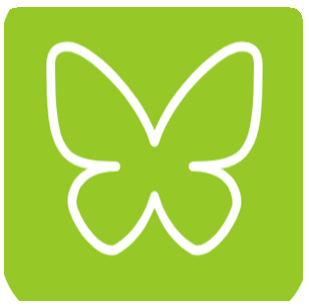
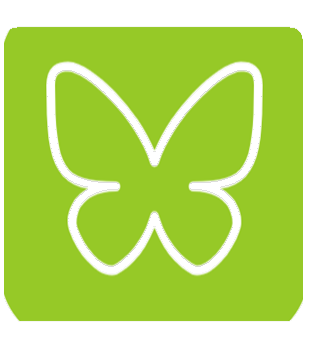
chore: préparation passage stable — licence AGPL v3, icône, robustesse install, statut connexion, doc
Tâches prioritaires complétées avant le passage en canal stable du Market.
pluginVersion conservé à 1.0.a (validation utilisateur requise pour bump).

- Icône : padding transparent 309×307 → 309×348 (gabarit Jeedom), retrait
  de plugin_info/ProJote_icon.png du .gitignore pour permettre son versioning
- Licence AGPL v3 : info.json "AGPL" → "AGPL v3", README badge mis à jour,
  en-têtes AGPL v3 sur ProJoted.py, LoginConnect.py, QRConnect.py,
  ProJote.class.php, ProJote.inc.php, jeeProJote.php
- post-install.sh : check Python ≥ 3.8 strict, idempotence via pip show,
  sanity check du venv, capture des erreurs pip vers le log Jeedom,
  exit codes propres sur chaque branche d'erreur
- Démon : nouvelle cmd info Statut_Connexion (Connecté / Déconnecté : … /
  Erreur : …) exposée dans la liste par défaut et alimentée depuis
  jeeProJote.php à chaque cycle ; recréée auto par postSave() pour les
  équipements existants
- Doc utilisateur : section Prérequis dédiée, ligne sidebar associée, table
  des commandes enrichie (Rafraîchir, Statut connexion, LastLogin, EDT J+1
  à J+4, listes détaillées), callout fenêtre cron 22h–4h, alignement
  Python 3.8+, entrée changelog 1.0.0 stable récapitulant les ajouts

diff --git a/docs/fr_FR/index.html b/docs/fr_FR/index.html
@@ -251,6 +251,7 @@
         <a href="#qrcode" class="sub">Par QR Code</a>
 
         <div class="sidebar-section">Référence</div>
+        <a href="#prerequis">Prérequis</a>
         <a href="#utilisation">Commandes disponibles</a>
         <a href="#widget">Widget</a>
         <a href="#version">Historique des versions</a>
@@ -289,8 +290,22 @@
     </div>
     <div class="callout callout-info">
         <strong>Compatibilité</strong>
-        Jeedom 4.4+ · Python 3.9+ · Debian 11/12 · Comptes élèves et parents.
+        Jeedom 4.4+ · Python 3.8+ · Debian 11/12 · Comptes élèves et parents.
     </div>
+
+    <!-- ── Prérequis ──────────────────────── -->
+    <h1 id="prerequis">Prérequis</h1>
+    <table>
+        <thead><tr><th>Élément</th><th>Version / Détail</th></tr></thead>
+        <tbody>
+            <tr><td>Jeedom</td><td>4.4 ou supérieur</td></tr>
+            <tr><td>Python</td><td>3.8 minimum (vérifié à l'installation des dépendances)</td></tr>
+            <tr><td>Système</td><td>Debian 11, Debian 12 (Smart, Luna, Atlas, RPi, Docker, DIY)</td></tr>
+            <tr><td>Paquet système</td><td><code>python3-venv</code> (installé automatiquement par Jeedom dans la plupart des cas)</td></tr>
+            <tr><td>Compte Pronote</td><td>Compte élève ou parent actif sur le portail Pronote de l'établissement</td></tr>
+            <tr><td>Réseau</td><td>Accès sortant HTTPS vers le serveur Pronote de l'établissement (et l'ENT si utilisé)</td></tr>
+        </tbody>
+    </table>
 
     <!-- ── Installation ───────────────────── -->
     <h1 id="installation">Installation</h1>
@@ -376,25 +391,31 @@ https://xxxxx.index-education.net/pronote/parent.html</code></pre>
     Vous pouvez forcer une actualisation avec la commande <em>Rafraîchir</em>.</p>
 
     <table>
-        <thead><tr><th>Commande</th><th>Description</th></tr></thead>
+        <thead><tr><th>Commande</th><th>Type</th><th>Description</th></tr></thead>
         <tbody>
-            <tr><td>Nom de l'élève</td><td>Prénom et nom</td></tr>
-            <tr><td>Classe</td><td>Intitulé de la classe</td></tr>
-            <tr><td>Établissement</td><td>Nom de l'établissement scolaire</td></tr>
-            <tr><td>Photo</td><td>Chemin local de la photo de profil</td></tr>
-            <tr><td>URL iCal</td><td>Lien d'abonnement au calendrier Pronote</td></tr>
-            <tr><td>Nb absences</td><td>Nombre d'absences sur la période en cours</td></tr>
-            <tr><td>Nb retards</td><td>Nombre de retards sur la période</td></tr>
-            <tr><td>Nb punitions</td><td>Nombre de punitions sur la période</td></tr>
-            <tr><td>Nb devoirs (fait / non fait)</td><td>Devoirs de la semaine, ventilés par statut</td></tr>
-            <tr><td>Nb devoirs demain (fait / non fait)</td><td>Devoirs pour le prochain jour de cours</td></tr>
-            <tr><td>EDT aujourd'hui — début / fin</td><td>Première et dernière heure de cours du jour</td></tr>
-            <tr><td>EDT aujourd'hui — cours annulés</td><td>Nombre de cours annulés aujourd'hui</td></tr>
-            <tr><td>EDT prochain jour — date / début / fin</td><td>Informations sur le prochain jour de cours</td></tr>
-            <tr><td>EDT prochain jour — cours annulés</td><td>Cours annulés du prochain jour</td></tr>
-            <tr><td>Cours annulés (total période)</td><td>Nombre total de cours annulés depuis la rentrée</td></tr>
+            <tr><td>Rafraîchir</td><td>action</td><td>Force une synchronisation immédiate avec Pronote (utilisable à toute heure, y compris durant la fenêtre nocturne).</td></tr>
+            <tr><td>Statut connexion</td><td>info</td><td>État courant : <code>Connecté</code>, <code>Déconnecté : &lt;raison&gt;</code> ou <code>Erreur : &lt;raison&gt;</code>. Utile pour scénarios d'alerte.</td></tr>
+            <tr><td>Dernière mise à jour</td><td>info</td><td>Horodatage de la dernière collecte réussie (commande <code>LastLogin</code>).</td></tr>
+            <tr><td>Nom de l'élève</td><td>info</td><td>Prénom et nom</td></tr>
+            <tr><td>Classe</td><td>info</td><td>Intitulé de la classe</td></tr>
+            <tr><td>Établissement</td><td>info</td><td>Nom de l'établissement scolaire</td></tr>
+            <tr><td>Photo</td><td>info</td><td>Chemin local de la photo de profil</td></tr>
+            <tr><td>URL iCal</td><td>info</td><td>Lien d'abonnement au calendrier Pronote</td></tr>
+            <tr><td>Nb absences / retards / punitions</td><td>info</td><td>Compteurs sur la période en cours</td></tr>
+            <tr><td>Nb devoirs (fait / non fait)</td><td>info</td><td>Devoirs de la semaine, ventilés par statut</td></tr>
+            <tr><td>Nb devoirs demain (fait / non fait)</td><td>info</td><td>Devoirs pour le prochain jour de cours</td></tr>
+            <tr><td>EDT aujourd'hui — début / fin / cours annulés</td><td>info</td><td>Repères horaires de la journée</td></tr>
+            <tr><td>EDT prochain jour — date / début / fin / cours annulés</td><td>info</td><td>Informations sur le prochain jour de cours</td></tr>
+            <tr><td>EDT J+1 à J+4</td><td>info</td><td>Emploi du temps détaillé sur les 4 prochains jours scolaires</td></tr>
+            <tr><td>Cours annulés (total période)</td><td>info</td><td>Nombre total de cours annulés depuis la rentrée</td></tr>
+            <tr><td>Liste des devoirs / absences / retards / punitions</td><td>info</td><td>Détails formatés HTML pour le widget</td></tr>
         </tbody>
     </table>
+    <div class="callout callout-info">
+        <strong>Fenêtre de synchronisation</strong>
+        Le cron Jeedom déclenche une collecte automatique toutes les heures, <strong>désactivé entre 22h et 4h</strong>
+        pour ne pas solliciter Pronote la nuit. La commande <em>Rafraîchir</em> reste utilisable à toute heure.
+    </div>
 
     <div class="callout callout-warning">
         <strong>Données manquantes ?</strong>
@@ -478,10 +499,26 @@ https://xxxxx.index-education.net/pronote/parent.html</code></pre>
     <!-- ── Historique ─────────────────────── -->
     <h1 id="version">Historique des versions</h1>
 
-    <h2>1.0 — Avril 2026</h2>
+    <h2>1.0.0 — Mai 2026 (stable)</h2>
     <table>
         <thead><tr><th>Type</th><th>Description</th></tr></thead>
         <tbody>
+            <tr>
+                <td><span class="badge badge-new">Nouveau</span></td>
+                <td><strong>Commande info <code>Statut_Connexion</code></strong> — expose en temps réel l'état de la connexion à Pronote (<code>Connecté</code>, <code>Déconnecté : …</code>, <code>Erreur : …</code>) pour bâtir des scénarios d'alerte sans parser les logs.</td>
+            </tr>
+            <tr>
+                <td><span class="badge badge-perf">Amélioration</span></td>
+                <td><strong>Script d'installation des dépendances robuste et idempotent</strong> — vérification stricte de Python ≥ 3.8, détection des paquets déjà présents pour éviter les ré-installations inutiles, capture explicite des erreurs pip dans le log Jeedom. Le script peut être relancé sans risque.</td>
+            </tr>
+            <tr>
+                <td><span class="badge badge-sec">Sécurité</span></td>
+                <td><strong>Licence AGPL v3</strong> — migration officielle de la licence du plugin vers la GNU Affero General Public License v3 ; en-têtes de licence harmonisés sur les sources Python et PHP principales.</td>
+            </tr>
+            <tr>
+                <td><span class="badge badge-perf">Amélioration</span></td>
+                <td><strong>Icône au gabarit Jeedom</strong> — l'icône respecte désormais le format 309×348 attendu par le Market Jeedom.</td>
+            </tr>
             <tr>
                 <td><span class="badge badge-fix">Correction</span></td>
                 <td><strong>Démon — module Python introuvable sur box Luna</strong> — le démon était lancé avec le Python système (<code>/usr/bin/python3</code>) au lieu du venv du plugin. Pronotepy étant installé uniquement dans le venv, le démon échouait avec <code>No module named 'pronotepy'</code>. Le démon utilise désormais systématiquement l'interpréteur du venv (<code>resources/python_venv/bin/python3</code>).</td>
@@ -732,7 +769,7 @@ https://xxxxx.index-education.net/pronote/parent.html</code></pre>
             <tr>
                 <td>Le démon ne démarre pas</td>
                 <td>
-                    Vérifiez que Python 3.9+ est installé : <code>python3 --version</code><br>
+                    Vérifiez que Python 3.8+ est installé : <code>python3 --version</code><br>
                     Vérifiez l'environnement virtuel : <code>ls /var/www/html/plugins/ProJote/resources/python_venv</code><br>
                     Relancez les dépendances depuis la page du plugin.
                 </td>

diff --git a/core/class/ProJote.class.php b/core/class/ProJote.class.php
@@ -1,19 +1,22 @@
 <?php
-/* This file is part of Jeedom.
-*
-* Jeedom is free software: you can redistribute it and/or modify
-* it under the terms of the GNU General Public License as published by
-* the Free Software Foundation, either version 3 of the License, or
-* (at your option) any later version.
-*
-* Jeedom is distributed in the hope that it will be useful,
-* but WITHOUT ANY WARRANTY; without even the implied warranty of
-* MERCHANTABILITY or FITNESS FOR A PARTICULAR PURPOSE. See the
-* GNU General Public License for more details.
-*
-* You should have received a copy of the GNU General Public License
-* along with Jeedom. If not, see <http://www.gnu.org/licenses/>.
-*/
+/* ProJote — plugin Jeedom pour Pronote
+ * Copyright (C) 2024-2026 Aldarande
+ *
+ * This file is part of ProJote.
+ *
+ * ProJote is free software: you can redistribute it and/or modify it under
+ * the terms of the GNU Affero General Public License as published by the
+ * Free Software Foundation, either version 3 of the License, or (at your
+ * option) any later version.
+ *
+ * ProJote is distributed in the hope that it will be useful, but WITHOUT
+ * ANY WARRANTY; without even the implied warranty of MERCHANTABILITY or
+ * FITNESS FOR A PARTICULAR PURPOSE. See the GNU Affero General Public
+ * License for more details.
+ *
+ * You should have received a copy of the GNU Affero General Public License
+ * along with this program. If not, see <https://www.gnu.org/licenses/>.
+ */
 
 /**
  * Ce fichier contient la définition des classes principales du plugin ProJote.
@@ -484,6 +487,7 @@ class ProJote extends eqLogic
       // L'utilisateur peut décocher "Afficher" dans l'onglet Commandes pour masquer une section.
       "refresh"               => array('Rafraichir',                                       'action', 'other',   "",      0, 1, "GENERIC_ACTION",  'core::badge',          'core::badge'),
       "LastLogin"             => array('Derniére Mise à Jour',                             'info',   'string',  "",      0, 0, "GENERIC_INFO",    'core::badge',          'core::badge'),
+      "Statut_Connexion"      => array('Statut connexion',                                  'info',   'string',  "",      0, 1, "GENERIC_INFO",    'core::badge',          'core::badge'),
       "Nom_Eleve"             => array("Nom de l'éleve",                                   'info',   'string',  "",      0, 1, "GENERIC_NAME ",   'core::badge',          'core::badge'),
       "Nom_Classe"            => array('Nom de la classe',                                 'info',   'string',  "",      0, 1, "GENERIC_NAME ",   'core::badge',          'core::badge'),
       "Etablissement"         => array('Etablissement',                                    'info',   'string',  "",      0, 1, "GENERIC_NAME ",   'core::badge',          'core::badge'),

diff --git a/core/php/ProJote.inc.php b/core/php/ProJote.inc.php
@@ -1,19 +1,22 @@
 <?php
-/* This file is part of Jeedom.
-*
-* Jeedom is free software: you can redistribute it and/or modify
-* it under the terms of the GNU General Public License as published by
-* the Free Software Foundation, either version 3 of the License, or
-* (at your option) any later version.
-*
-* Jeedom is distributed in the hope that it will be useful,
-* but WITHOUT ANY WARRANTY; without even the implied warranty of
-* MERCHANTABILITY or FITNESS FOR A PARTICULAR PURPOSE. See the
-* GNU General Public License for more details.
-*
-* You should have received a copy of the GNU General Public License
-* along with Jeedom. If not, see <http://www.gnu.org/licenses/>.
-*/
+/* ProJote — plugin Jeedom pour Pronote
+ * Copyright (C) 2024-2026 Aldarande
+ *
+ * This file is part of ProJote.
+ *
+ * ProJote is free software: you can redistribute it and/or modify it under
+ * the terms of the GNU Affero General Public License as published by the
+ * Free Software Foundation, either version 3 of the License, or (at your
+ * option) any later version.
+ *
+ * ProJote is distributed in the hope that it will be useful, but WITHOUT
+ * ANY WARRANTY; without even the implied warranty of MERCHANTABILITY or
+ * FITNESS FOR A PARTICULAR PURPOSE. See the GNU Affero General Public
+ * License for more details.
+ *
+ * You should have received a copy of the GNU Affero General Public License
+ * along with this program. If not, see <https://www.gnu.org/licenses/>.
+ */
 
 require_once __DIR__  . '/../../../../core/php/core.inc.php';
 /*

diff --git a/resources/ProJoted/ProJoted.py b/resources/ProJoted/ProJoted.py
@@ -1,16 +1,20 @@
-# This file is part of Jeedom
-# Jeedom is free software: you can redistribute it and/or modify
-# it under the terms of the GNU General Public License as published by
-# the Free Software Foundation, either version 3 of the License, or
-# (at your option) any later version.
+# ProJote — plugin Jeedom pour Pronote
+# Copyright (C) 2024-2026 Aldarande
 #
-# Jeedom is distributed in the hope that it will be useful,
-# but WITHOUT ANY WARRANTY; without even the implied warranty of
-# MERCHANTABILITY or FITNESS FOR A PARTICULAR PURPOSE. See the
-# GNU General Public License for more details.
+# This file is part of ProJote.
 #
-# You should have received a copy of the GNU General Public License
-# along with Jeedom. If not, see <http://www.gnu.org/licenses/>.
+# ProJote is free software: you can redistribute it and/or modify it under
+# the terms of the GNU Affero General Public License as published by the
+# Free Software Foundation, either version 3 of the License, or (at your
+# option) any later version.
+#
+# ProJote is distributed in the hope that it will be useful, but WITHOUT
+# ANY WARRANTY; without even the implied warranty of MERCHANTABILITY or
+# FITNESS FOR A PARTICULAR PURPOSE. See the GNU Affero General Public
+# License for more details.
+#
+# You should have received a copy of the GNU Affero General Public License
+# along with this program. If not, see <https://www.gnu.org/licenses/>.
 
 ### Sources ###
 # API WRAPPER PronotePy :  https://github.com/bain3/pronotepy

diff --git a/core/php/jeeProJote.php b/core/php/jeeProJote.php
@@ -1,4 +1,9 @@
 <?php
+/* ProJote — plugin Jeedom pour Pronote
+ * Copyright (C) 2024-2026 Aldarande
+ * Licensed under the GNU Affero General Public License v3 or later.
+ * See <https://www.gnu.org/licenses/agpl-3.0.html> for full license text.
+ */
 
 /**
  * jeeProJote.php — Point de callback HTTP du démon Python vers Jeedom.
@@ -68,6 +73,14 @@ try {
     if ($connection_status === 'disconnected' || $connection_status === 'error') {
         $error_message = isset($result['error']) ? $result['error'] : 'Raison non spécifiée';
 
+        // Expose le statut dans la cmd info "Statut_Connexion" pour le widget et les scénarios.
+        if ($eqLogic->getCmd(null, 'Statut_Connexion')) {
+            $label = ($connection_status === 'disconnected')
+                ? 'Déconnecté : ' . $error_message
+                : 'Erreur : ' . $error_message;
+            $eqLogic->checkAndUpdateCmd('Statut_Connexion', $label);
+        }
+
         // Log le statut avec différenciation claire
         if ($connection_status === 'disconnected') {
             log::add('ProJote', 'warning', '[SESSION EXPIRÉE] ' . $eqLogic->getHumanName() . ' - ' . $error_message);
@@ -98,6 +111,11 @@ try {
     if (isset($result['ConnectionDate']) && $eqLogic->getCmd(null, 'LastLogin')) {
         log::add('ProJote', 'debug', 'Champ reçu : LastLogin - Valeur reçue : ' . $result['ConnectionDate']);
         $eqLogic->checkAndUpdateCmd('LastLogin', $result['ConnectionDate']);
+    }
+
+    // Cycle connecté : on rafraîchit la cmd "Statut_Connexion" en positif.
+    if ($connection_status === 'connected' && $eqLogic->getCmd(null, 'Statut_Connexion')) {
+        $eqLogic->checkAndUpdateCmd('Statut_Connexion', 'Connecté');
     }
 
     // Vérifie si des informations d'élève sont présentes

diff --git a/resources/ProJoted/LoginConnect.py b/resources/ProJoted/LoginConnect.py
@@ -1,3 +1,8 @@
+# ProJote — plugin Jeedom pour Pronote
+# Copyright (C) 2024-2026 Aldarande
+# Licensed under the GNU Affero General Public License v3 or later.
+# See <https://www.gnu.org/licenses/agpl-3.0.html> for full license text.
+
 """
 LoginConnect.py — Connexion à Pronote via identifiants login/mot de passe.
 

diff --git a/resources/ProJoted/QRConnect.py b/resources/ProJoted/QRConnect.py
@@ -1,3 +1,8 @@
+# ProJote — plugin Jeedom pour Pronote
+# Copyright (C) 2024-2026 Aldarande
+# Licensed under the GNU Affero General Public License v3 or later.
+# See <https://www.gnu.org/licenses/agpl-3.0.html> for full license text.
+
 """
 QRConnect.py — Connexion à Pronote via QR code scanné depuis l'application mobile.
 

diff --git a/README.md b/README.md
@@ -1,7 +1,7 @@
 # 📚 ProJote - Plugin JEEDOM Pronote
 
 ![Version](https://img.shields.io/badge/version-1.0-blue)
-![License](https://img.shields.io/badge/license-AGPL-green)
+![License](https://img.shields.io/badge/license-AGPL%20v3-green)
 ![Jeedom](https://img.shields.io/badge/Jeedom-4.3+-orange)
 
 **ProJote** est un plugin JEEDOM qui vous permet de **récupérer automatiquement les informations de votre compte Pronote** directement dans Jeedom. Consultez vos notes, emplois du temps, devoirs, absences et bien plus encore!